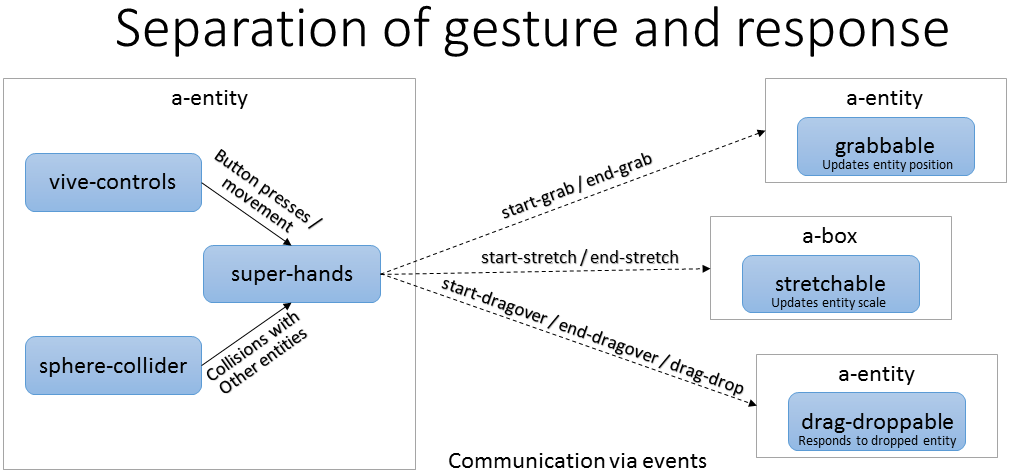
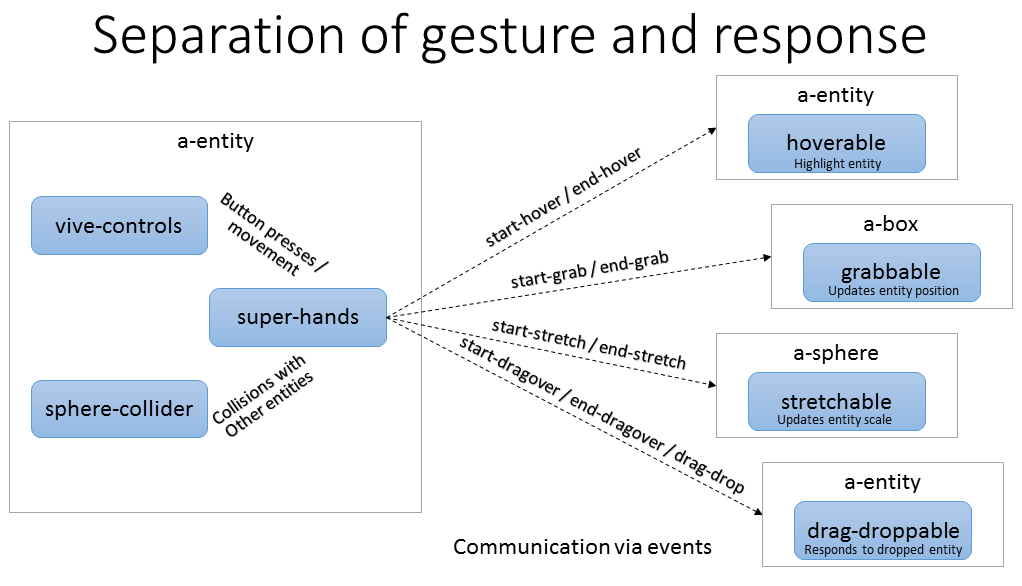
new reaction component: hoverable

diff --git a/reaction_components/hoverable.js b/reaction_components/hoverable.js
@@ -1,8 +1,10 @@
-AFRAME.registerComponent('drag-droppable', {
+AFRAME.registerComponent('hoverable', {
   init: function () {
-    this.HOVERED_STATE = 'dragover';
-    this.HOVER_EVENT = 'dragover-start';
-    this.UNHOVER_EVENT = 'dragover-end';
+    this.HOVERED_STATE = 'hovered';
+    this.HOVER_EVENT = 'hover-start';
+    this.UNHOVER_EVENT = 'hover-end';
+    
+    this.hoverers = [];
     
     this.start = this.start.bind(this);
     this.end = this.end.bind(this);
@@ -17,8 +19,17 @@ AFRAME.registerComponent('drag-droppable', {
   },
   start: function(evt) {
     this.el.addState(this.HOVERED_STATE);
+    if(this.hoverers.indexOf(evt.detail.hand) === -1) {
+      this.hoverers.push(evt.detail.hand);
+    }
   },
   end: function (evt) {
-    this.el.removeState(this.HOVERED_STATE);
+    var handIndex = this.hoverers.indexOf(evt.detail.hand);
+    if(handIndex !== -1) {
+      this.hoverers.splice(handIndex, 1);
+    }
+    if(this.hoverers.length < 1) {
+      this.el.removeState(this.HOVERED_STATE);
+    }
   } 
 });

diff --git a/README.md b/README.md
@@ -64,6 +64,8 @@ The entity `super-hands` is attached to is sent in the event `details` as the pr
 
 | Type | Description | Target |  details object |
 | --- | --- | --- | --- |
+| hover-start | Collided with entity | collided entity | hand: `super-hands` entity |
+| hover-end | No longer collided with entity | collided entity | hand: `super-hands` entity |
 | grab-start | Button pressed while collided with entity and hand is empty | collided entity | hand: `super-hands` entity |
 | grab-end | Button released after grab-start | collided entity | hand: `super-hands` entity |
 | stretch-start | Both controllers have button pressed while collided with entity | collided entity | hand: `super-hands` entity, secondHand: second contoller entity |
@@ -75,6 +77,19 @@ The entity `super-hands` is attached to is sent in the event `details` as the pr
 Note: references to buttons being "released" and "pressed" are dependent on the schema settings. 
 For example, to make grab 'sticky', you could set startGrabButtons to 'triggerdown' and endGrabButtons to 'gripdown' (with `vive-controls`).
 This way the grab-end event would not fire until the grip button was *pressed*, even if the trigger was *released* earlier. 
+
+#### hoverable
+
+Used to indicate when the controller is within range to interact with an entity
+by adding the 'hovered' state. When using a mixin, including another mixin
+in the assets withe same id + '-hovered' will activate automatically, as in
+[the examples](https://wmurphyrd.github.io/aframe-super-hands-component/examples/).
+
+##### States
+
+| Name | Description |
+| --- | --- |
+| hovered | Added to entity while it is collided with the controller |
 
 #### grabbable
 
@@ -117,7 +132,7 @@ There is no CANNON api method for updating physics body scale, but `stretchable`
 #### drag-droppable
 
 `drag-droppable` is a shell component that only manages the 'hovered' state for the entity. 
-This can be combined with  with a '*-hovered' mixin to easily highlight when an entity is 
+This can be combined with  with a '-hovered' mixin to easily highlight when an entity is 
 hovering in a drag-drop location. 
 
 For more interactivity, consider using `event-set` from [kframe](http://github.com/ngokevin/kframe) 
@@ -127,7 +142,7 @@ with the `drag-dropped` event or creating your own component.
 
 | Name | Description |
 | --- | --- |
-| hovered | Added to while a carried entity is colliding with a a `drag-droppable` entity |
+| dragover | Added to while a carried entity is colliding with a a `drag-droppable` entity |
 
 Add `drag-droppable` to both the carried entity and the receiving entity if you want both of them to 
 receive the hovered state. 
